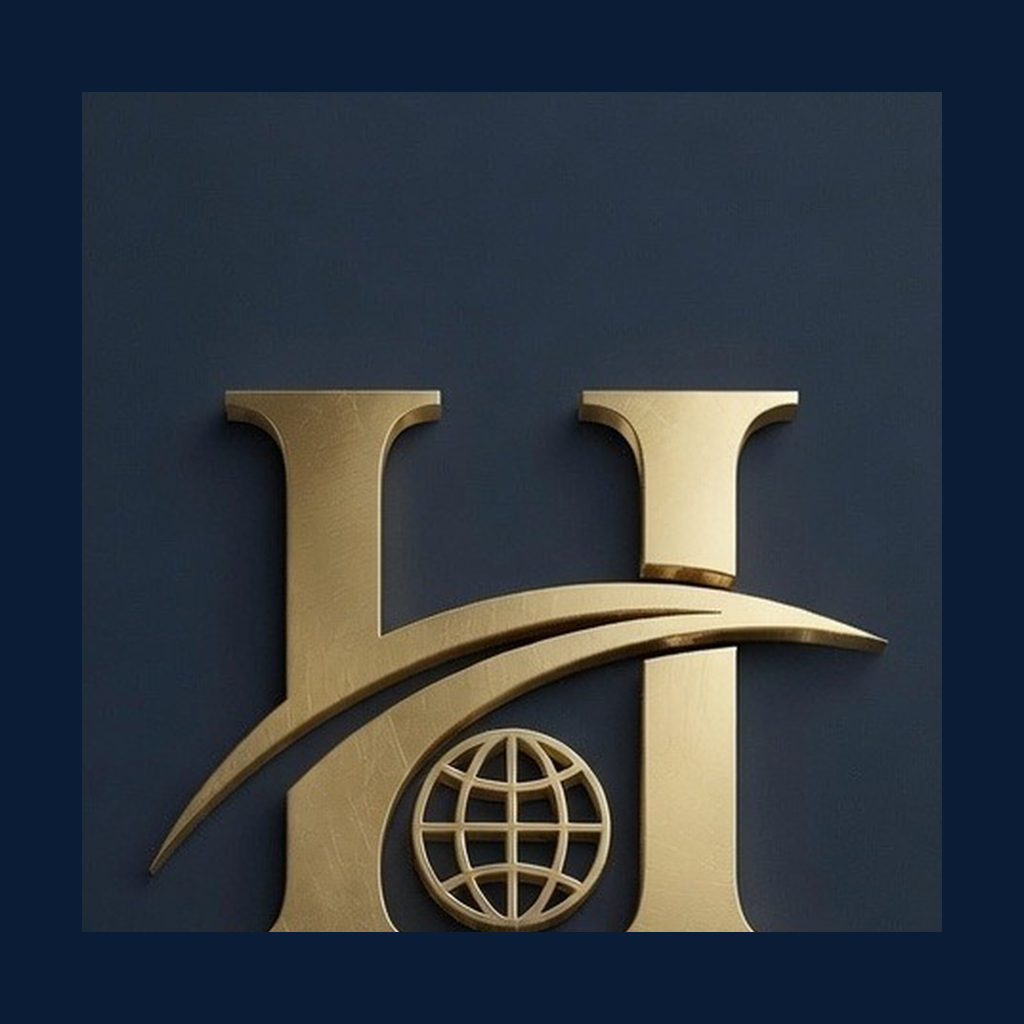
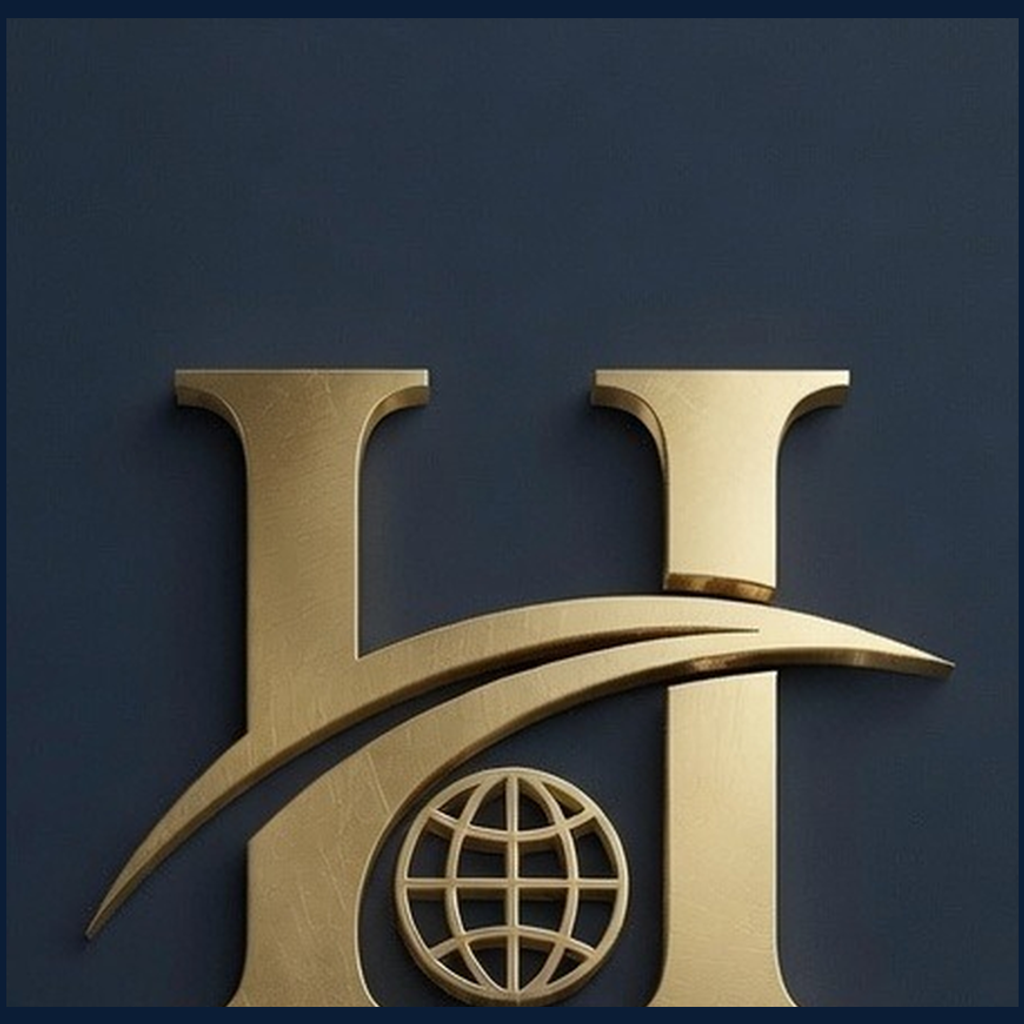
Add teal nav scroll-spy and align JH world chips.
Track active section with an FFD-teal underline like TCF, and normalize johnhekmati.com work chips to equal square tiles.

diff --git a/index.html b/index.html
@@ -13,7 +13,7 @@
   <link rel="preconnect" href="https://fonts.googleapis.com" />
   <link rel="preconnect" href="https://fonts.gstatic.com" crossorigin />
   <link href="https://fonts.googleapis.com/css2?family=DM+Sans:ital,opsz,wght@0,9..40,400;0,9..40,500;0,9..40,600;0,9..40,700;1,9..40,400&family=Fraunces:ital,opsz,wght@0,9..144,500;0,9..144,600;0,9..144,700;1,9..144,500;1,9..144,600&display=swap" rel="stylesheet" />
-  <link rel="stylesheet" href="/css/styles.css?v=ffd11" />
+  <link rel="stylesheet" href="/css/styles.css?v=ffd12" />
 
   <meta property="og:title" content="Form & Frame Design" />
   <meta property="og:description" content="Professional websites grounded in your real signals — shops, anchors, and multi-site operators. Clear packages. Full ownership. Claim my site." />
@@ -46,11 +46,11 @@
         <span class="nav-brand-name">Form <em>&amp;</em> Frame</span>
       </a>
       <nav class="nav-links" id="nav-links" aria-label="Primary">
-        <a href="#problem">Why it matters</a>
-        <a href="#how">How it works</a>
-        <a href="#packages">Packages</a>
-        <a href="#work">Work</a>
-        <a href="#faq">FAQ</a>
+        <a href="#problem" data-nav>Why it matters</a>
+        <a href="#how" data-nav>How it works</a>
+        <a href="#packages" data-nav>Packages</a>
+        <a href="#work" data-nav>Work</a>
+        <a href="#faq" data-nav>FAQ</a>
         <a href="#claim" class="nav-cta">Claim my site</a>
       </nav>
       <button class="nav-toggle" id="nav-toggle" aria-expanded="false" aria-controls="nav-links" aria-label="Open menu">
@@ -511,9 +511,9 @@
               </div>
             </a>
             <div class="work-marks" aria-hidden="true">
-              <img src="/assets/images/portfolio/jh/jh-world-hcg.png?v=2" alt="" width="200" height="200" loading="lazy" />
-              <img src="/assets/images/portfolio/jh/jh-world-tcf.png?v=2" alt="" width="200" height="200" loading="lazy" />
-              <img src="/assets/images/portfolio/jh/jh-world-pmmai.jpg?v=2" alt="" width="200" height="200" loading="lazy" />
+              <img src="/assets/images/portfolio/jh/jh-world-hcg.png?v=3" alt="" width="200" height="200" loading="lazy" />
+              <img src="/assets/images/portfolio/jh/jh-world-tcf.png?v=3" alt="" width="200" height="200" loading="lazy" />
+              <img src="/assets/images/portfolio/jh/jh-world-pmmai.jpg?v=3" alt="" width="200" height="200" loading="lazy" />
             </div>
           </div>
 
@@ -864,6 +864,50 @@
       }
       window.addEventListener("scroll", onScroll, { passive: true });
       onScroll();
+    })();
+
+    /* Scroll-spy: teal underline tracks the section in view (TCF-style cue) */
+    (function () {
+      var navLinks = Array.prototype.slice.call(document.querySelectorAll("[data-nav]"));
+      if (!navLinks.length) return;
+
+      var navIds = {};
+      navLinks.forEach(function (link) {
+        var href = link.getAttribute("href") || "";
+        if (href.charAt(0) === "#") navIds[href.slice(1)] = true;
+      });
+
+      var sections = Array.prototype.slice
+        .call(document.querySelectorAll("section[id]"))
+        .filter(function (s) { return navIds[s.id]; });
+
+      if (!sections.length) return;
+
+      function setActive(id) {
+        navLinks.forEach(function (link) {
+          var on = link.getAttribute("href") === "#" + id;
+          link.classList.toggle("is-active", on);
+          if (on) link.setAttribute("aria-current", "location");
+          else link.removeAttribute("aria-current");
+        });
+      }
+
+      if (!("IntersectionObserver" in window)) {
+        setActive(sections[0].id);
+        return;
+      }
+
+      var observer = new IntersectionObserver(
+        function (entries) {
+          entries.forEach(function (entry) {
+            if (!entry.isIntersecting) return;
+            setActive(entry.target.id);
+          });
+        },
+        { rootMargin: "-40% 0px -55% 0px", threshold: 0 }
+      );
+
+      sections.forEach(function (section) { observer.observe(section); });
     })();
 
     (function () {

diff --git a/css/styles.css b/css/styles.css
@@ -218,23 +218,29 @@ em {
   position: relative;
 }
 
+/* Underline: hover + scroll-spy active (FFD teal — same cue as TCF electric) */
 .nav-links a:not(.nav-cta)::after {
   content: "";
   position: absolute;
   left: 0;
-  right: 100%;
+  width: 0;
   bottom: -0.35rem;
   height: 2px;
   background: var(--accent);
-  transition: right 0.22s ease;
+  transition: width 0.28s var(--ease-out);
 }
 
 .nav-links a:not(.nav-cta):hover {
   color: var(--ink);
 }
 
-.nav-links a:not(.nav-cta):hover::after {
-  right: 0;
+.nav-links a:not(.nav-cta):hover::after,
+.nav-links a:not(.nav-cta).is-active::after {
+  width: 100%;
+}
+
+.nav-links a:not(.nav-cta).is-active {
+  color: var(--ink);
 }
 
 .nav-cta {
@@ -322,7 +328,12 @@ em {
   }
 
   .nav-links a:not(.nav-cta)::after {
-    display: none;
+    bottom: 0.55rem;
+    left: 0.25rem;
+  }
+
+  .nav-links a:not(.nav-cta).is-active {
+    color: var(--accent-deep);
   }
 
   .nav-links .nav-cta {
@@ -1390,7 +1401,7 @@ th.highlight {
   width: 100%;
   height: auto;
   aspect-ratio: 1 / 1;
-  object-fit: contain;
+  object-fit: cover;
   object-position: center center;
   border: 1px solid var(--line);
   border-radius: 0.45rem;
@@ -1400,14 +1411,6 @@ th.highlight {
 
 .work-card:hover .work-marks img {
   border-color: rgba(27, 120, 103, 0.28);
-}
-
-/* Product UI tiles (TCF map / practice / save) — landscape captures, not marks */
-.work-marks--product img {
-  aspect-ratio: 16 / 10;
-  object-fit: cover;
-  object-position: top center;
-  background: #050505;
 }
 
 .work-body {

diff --git a/AGENTS.md b/AGENTS.md
@@ -28,7 +28,7 @@ Do **not** stop after “ready to commit?” when the Principal already said shi
 - L2 rock bottom $8k is **operator-only** (not marketing page). Below $8k = walk or re-scope to L1.  
 - Package CTAs: all “Claim my site” — black off-hover, accent green on-hover.  
 - VAS (location SEO pages, menu depth, retainers) separate from turnkey core.  
-- Cache-bust: bump `?v=` on `styles.css` when CSS changes (current target `ffd11`+).
+- Cache-bust: bump `?v=` on `styles.css` when CSS changes (current target `ffd12`+).
 
 ### Gates (ask Principal)
 New public price floors · unpaid pitch on homepage proof · DNS/secrets · live cold send to a named prospect · reclass multi-site under $8k as if it were L2.

diff --git a/CHANGELOG.md b/CHANGELOG.md
@@ -6,6 +6,13 @@ Public site (FFD). Newest first.
 
 ---
 
+## 2026-07-28 — Nav scroll-spy + JH chip alignment
+
+- Header links get TCF-style scroll-spy underline in **FFD teal** as sections enter view
+- `data-nav` + IntersectionObserver (`-40% / -55%` band); `aria-current` on active link
+- JH world chips height-aligned: letterbox crop on HCG + `object-fit: cover` on work-marks
+- Cache-bust `ffd12`
+
 ## 2026-07-28 — TCF proof stills corrected
 
 - Desktop/phone heroes: static capture (animations off) so CF mark is fully readable — not mid-rotation
